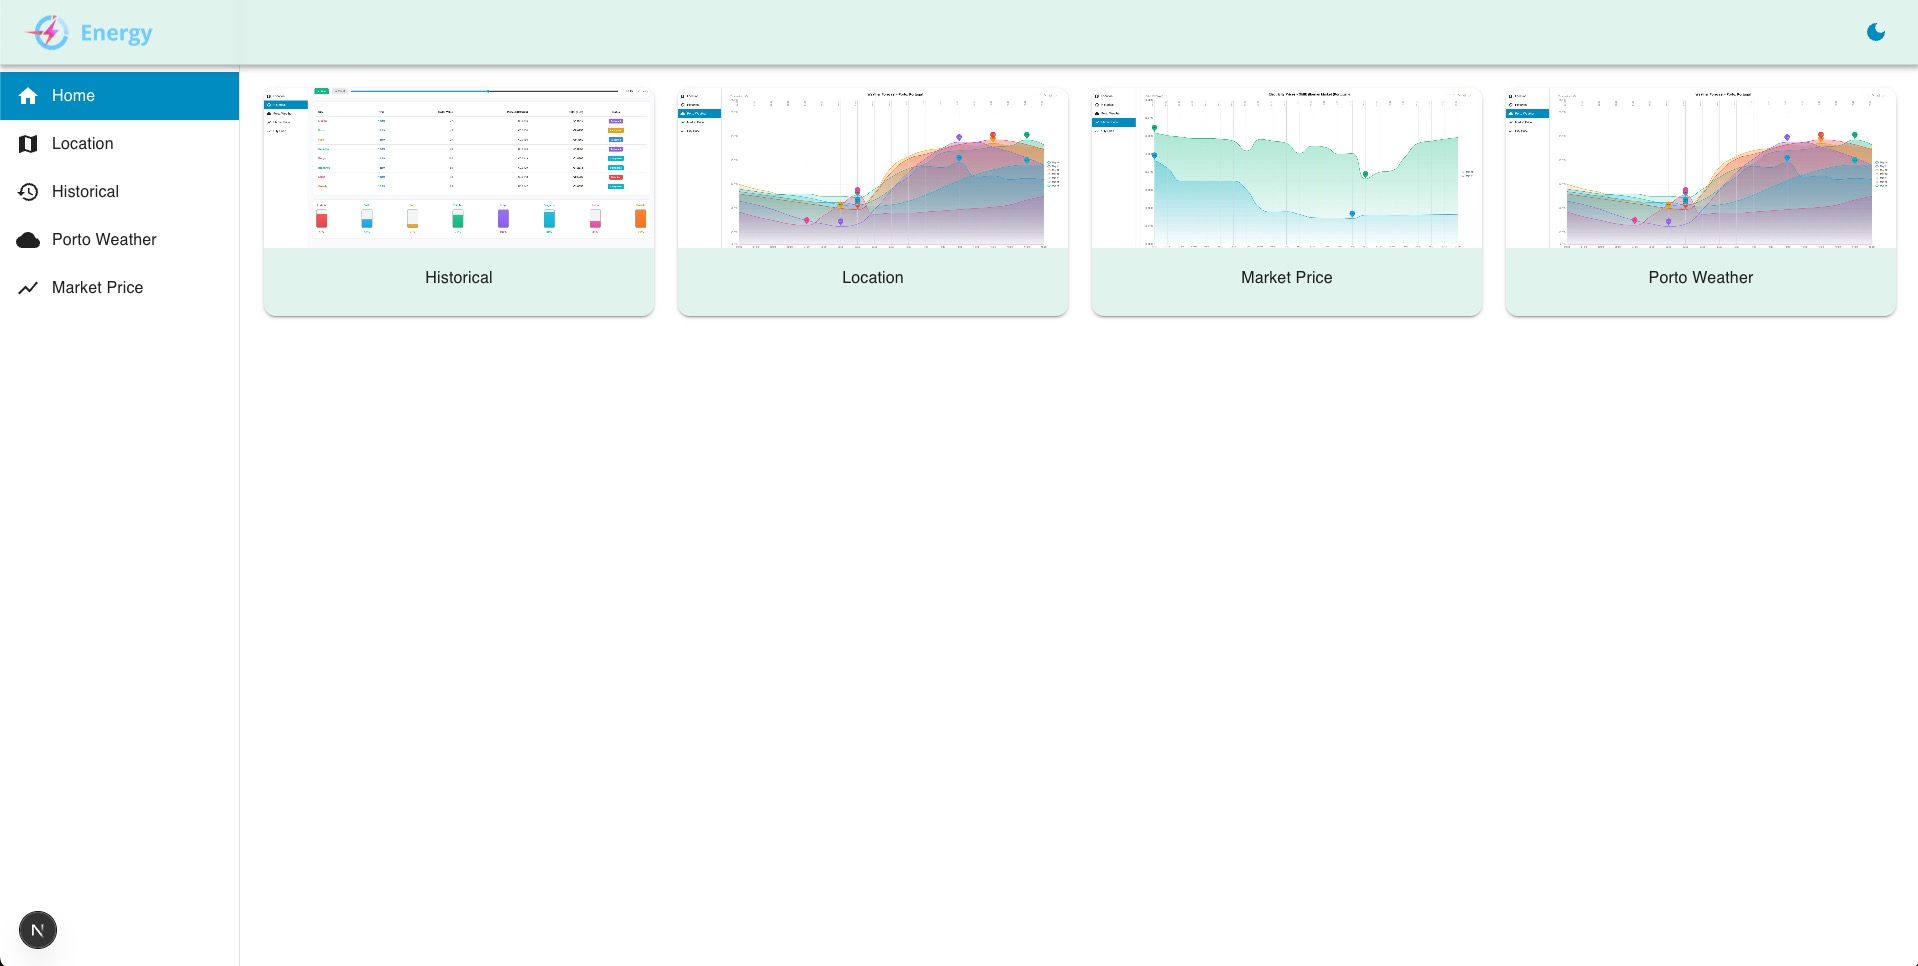
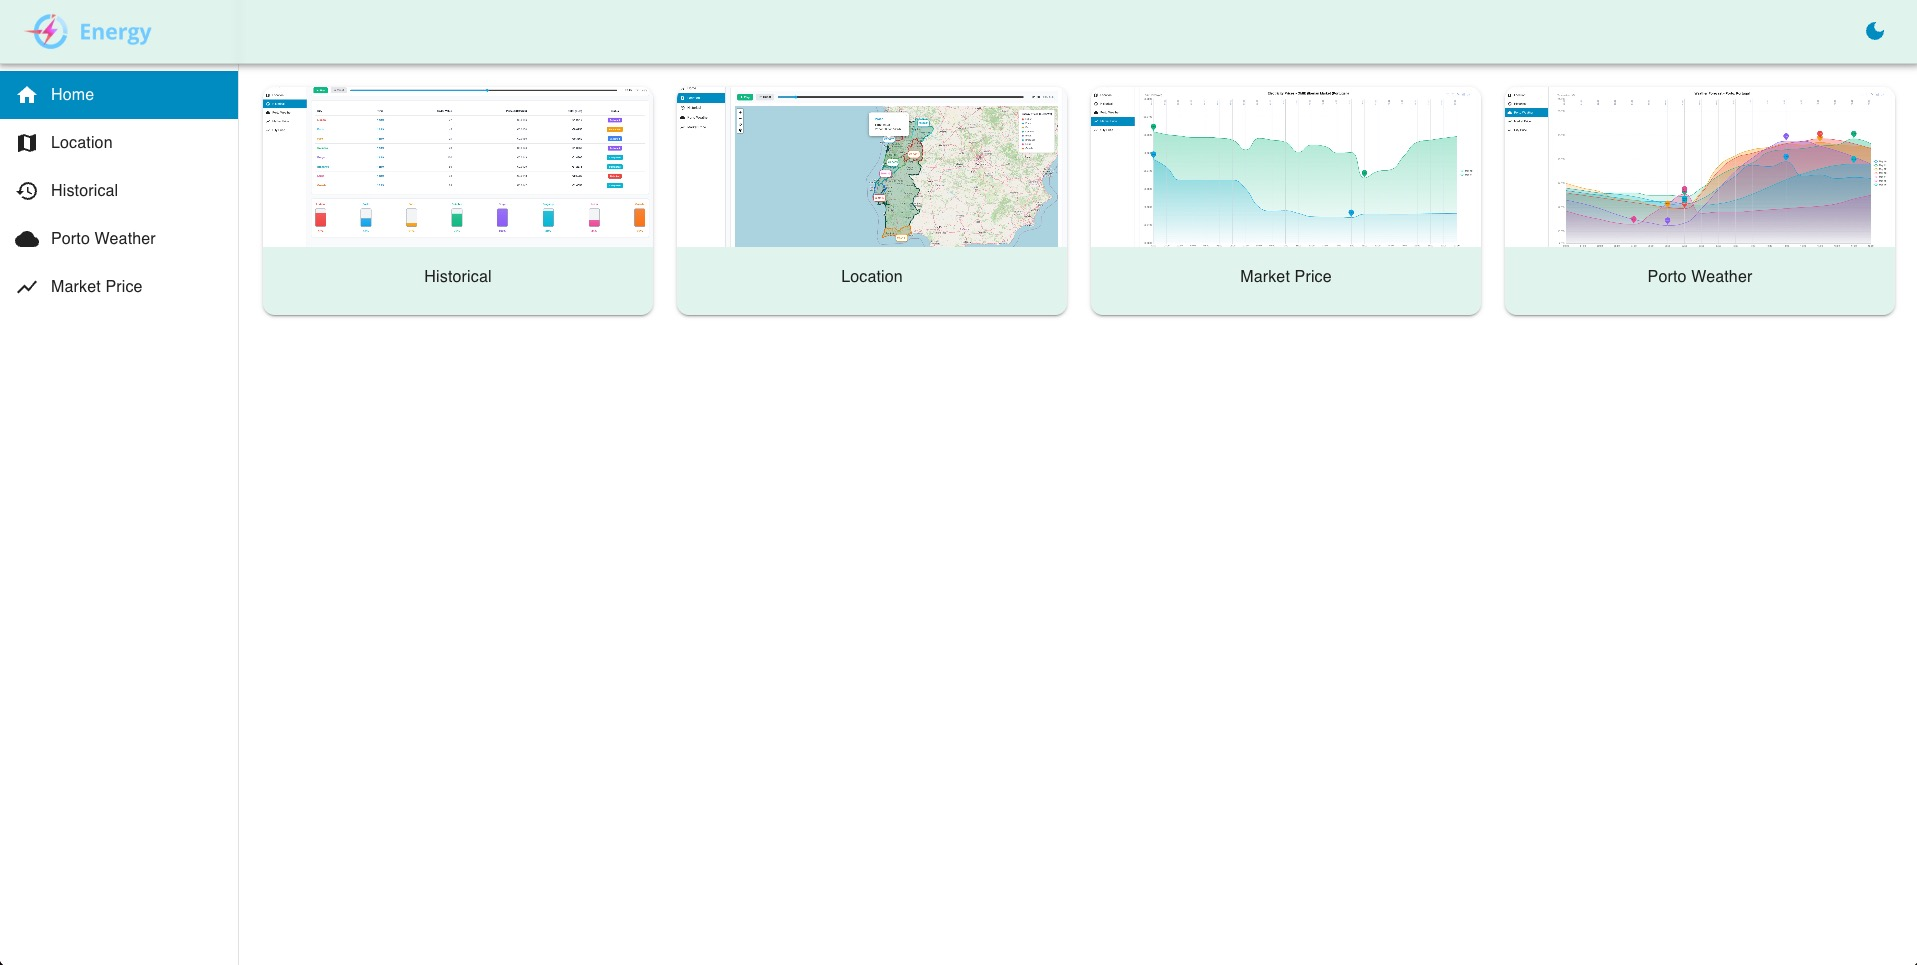
Update

diff --git a/frontend/src/app/components/Content.js b/frontend/src/app/components/Content.js
@@ -15,7 +15,7 @@ const BOTTOM_NAV_HEIGHT = 56;
 
 const PAGES = [
   { title: 'Historical',    href: '/pages/Historical',     img: '/energy-market/pic3.jpg' },
-  { title: 'Location',      href: '/pages/Location',       img: '/energy-market/pic4.jpg' },
+  { title: 'Location',      href: '/pages/Location',       img: '/energy-market/pic2.jpg' },
   { title: 'Market Price',  href: '/pages/MarketPrice',    img: '/energy-market/pic5.jpg' },
   { title: 'Porto Weather', href: '/pages/PortoWeather',   img: '/energy-market/pic4.jpg' },
 ];

diff --git a/README.md b/README.md
@@ -3,6 +3,8 @@
 A real-time energy market visualization platform that displays electricity prices across Portugal, featuring minute-by-minute pricing data from multiple cities and historical market trends.
 
 ![Energy Market Simulator](frontend/public/pic1.jpg)
+![Energy Market Location](frontend/public/pic2.jpg)
+
 
 ## 🔗 Links
 